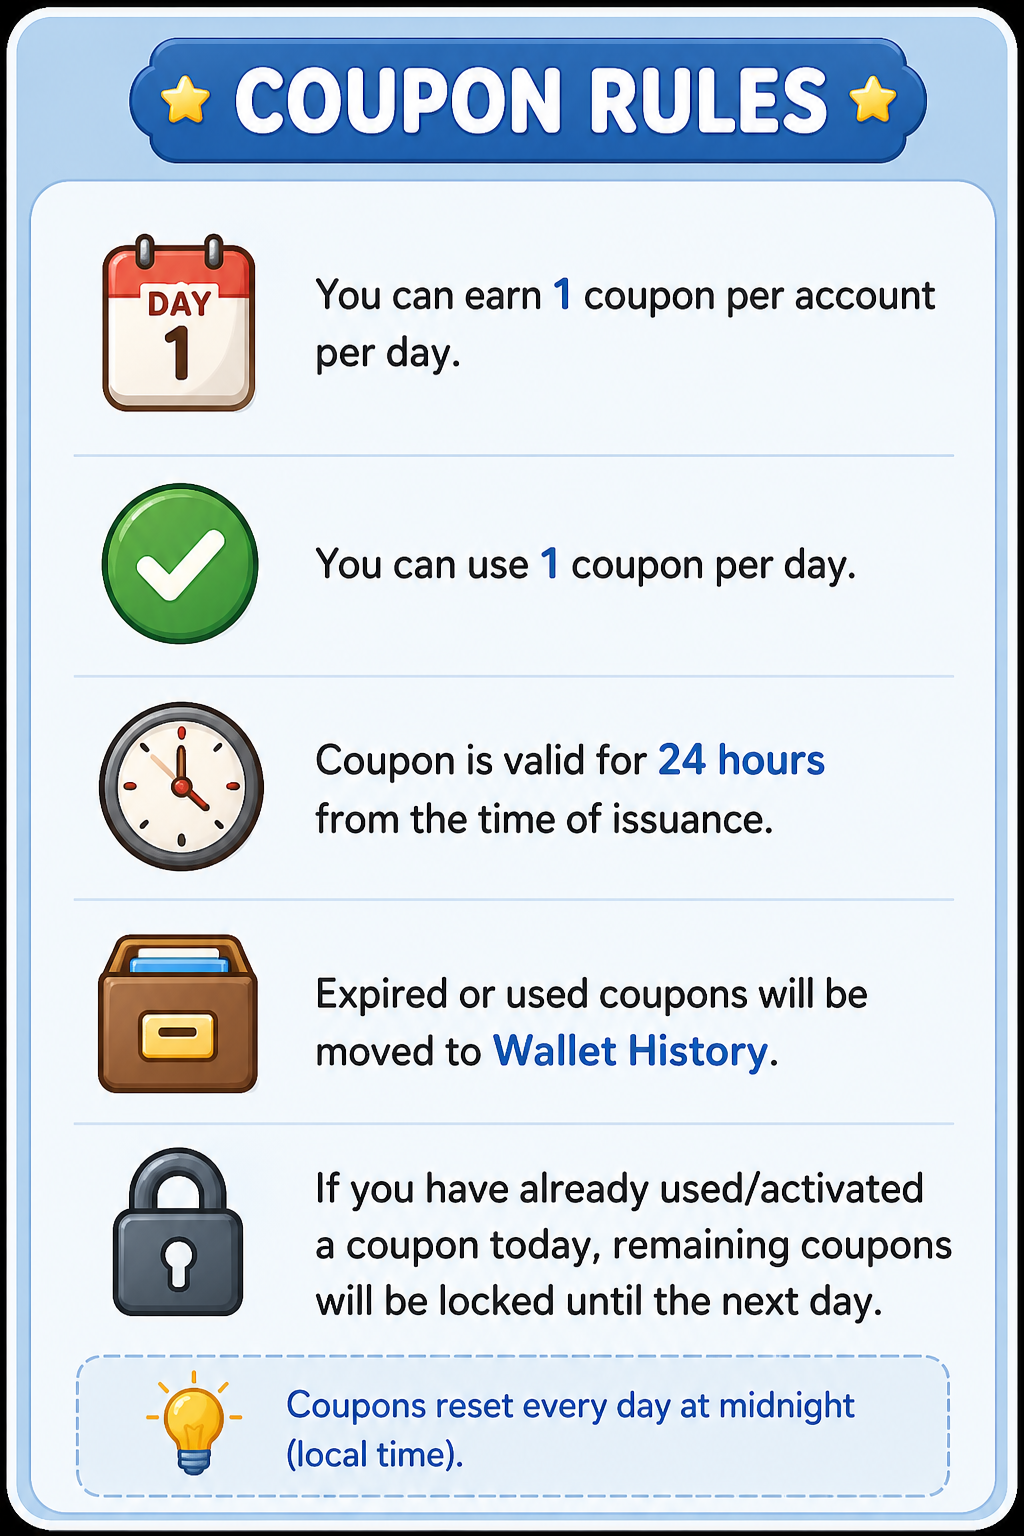
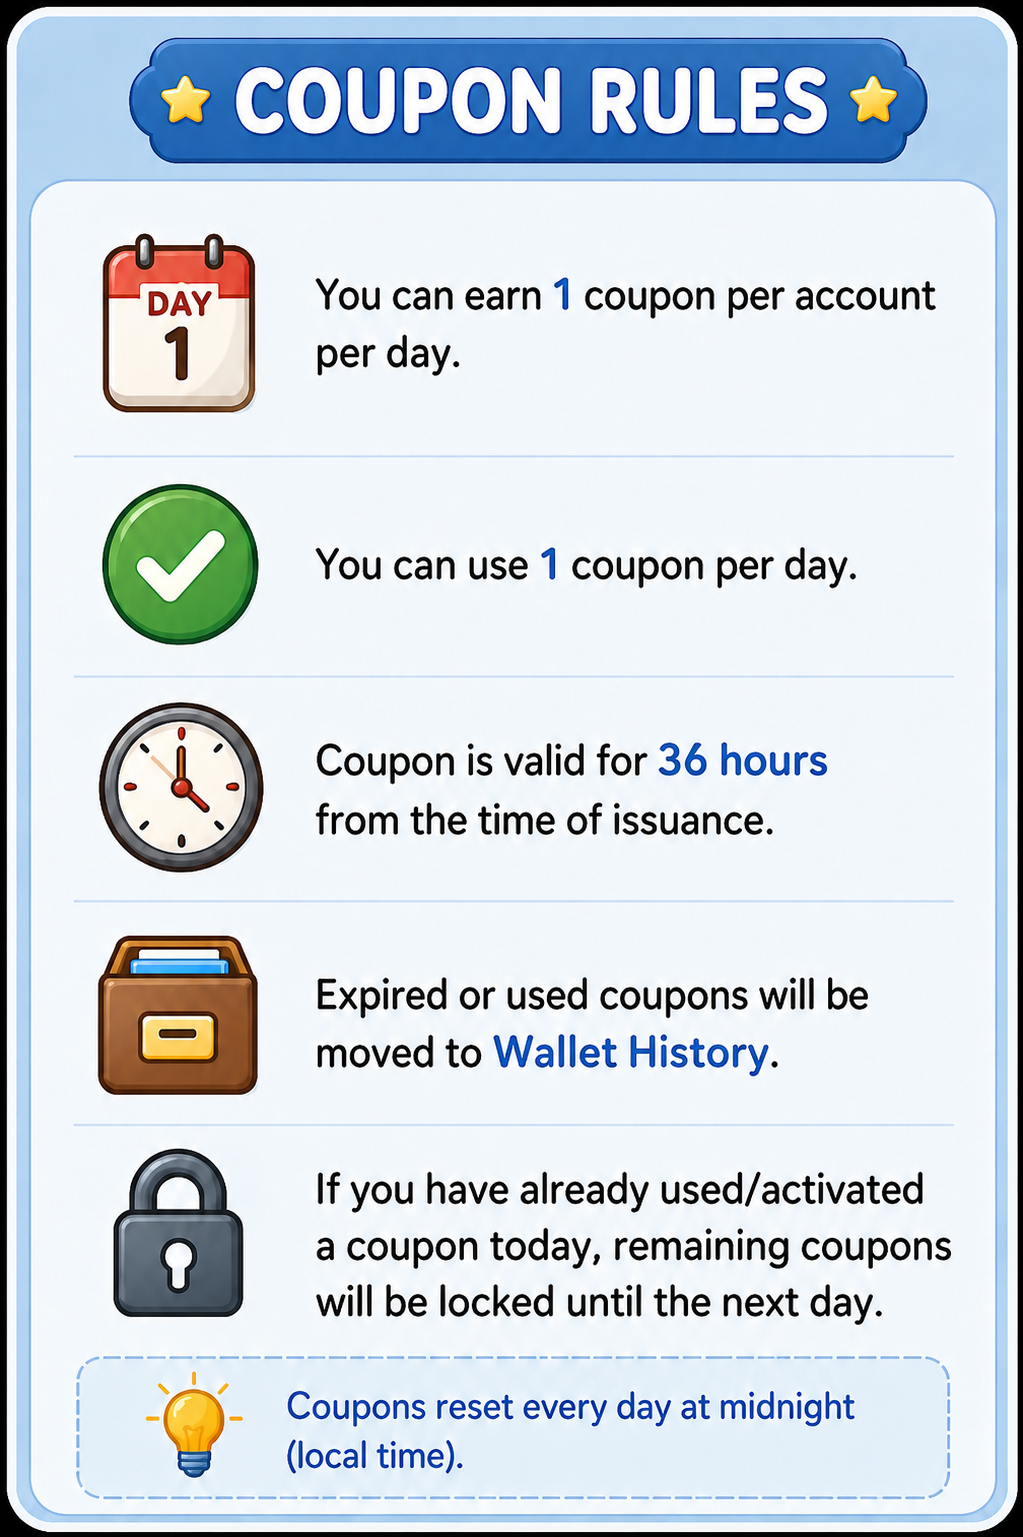
Replace falling hearts with soccer balls; update coupon-rules image

diff --git a/app/components/Game.tsx b/app/components/Game.tsx
@@ -7,7 +7,7 @@ import { COUPON_REWARDS, getEligibleCouponReward } from "../lib/coupons";
 
 type CharId = "green" | "berry" | "sprinkle";
 type GameMode = "free" | "mission" | "timeAttack";
-const HEART_EMOJI = "💗";
+const HEART_EMOJI = "⚽";
 const FREE_HEART_SPAWN_CHANCE = 0.08;
 const FREE_HEART_MIN_INTERVAL_MS = 7000;
 const FREE_HEART_MAX_ACTIVE = 1;